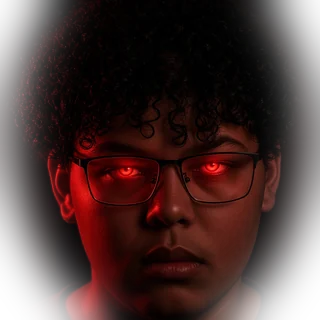
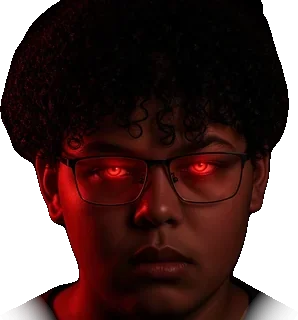
Secret card photos: backgrounds removed (FIFA cards never have photo backgrounds), cache-busted
Claude-Session: https://claude.ai/code/session_01Cnfa8ZaXrxHkhmNg3CfaQv

diff --git a/3d/js/meta/core/secretcard.js b/3d/js/meta/core/secretcard.js
@@ -48,8 +48,8 @@ export const SECRET_VERSIONS = [
   // owner request (Sep 29): Perlita + an "evil" twin. `evil`: red design with "EVIL" across the top, and (owner) -∞ stats: cursed like THE NII
   // (card.js `is-evil`, meta.css). Nation: Kenya (owner).
   { id: 'secret_perlita', last: 'Perlita', name: 'Perlita', nat: 'KEN', skin: 2, photo: 'assets/cards/perlita.webp' },
-  { id: 'secret_evilperlita', last: 'Evil Perlita', name: 'Evil Perlita', nat: 'KEN', skin: 2, photo: 'assets/cards/evil-perlita.webp', evil: true, cursed: true, tag: 'EVIL' },
-  { id: 'secret_evilnickerson', last: 'Evil Nickerson', name: 'Evil Nickerson', nat: 'KEN', skin: 5, photo: 'assets/cards/evil-nickerson.webp', evil: true, cursed: true, tag: 'EVIL' },
+  { id: 'secret_evilperlita', last: 'Evil Perlita', name: 'Evil Perlita', nat: 'KEN', skin: 2, photo: 'assets/cards/evil-perlita.webp?v=2', evil: true, cursed: true, tag: 'EVIL' },
+  { id: 'secret_evilnickerson', last: 'Evil Nickerson', name: 'Evil Nickerson', nat: 'KEN', skin: 5, photo: 'assets/cards/evil-nickerson.webp?v=2', evil: true, cursed: true, tag: 'EVIL' },
   // owner request (Sep 29): knight card, the owner's whole picture (title + background) is the card art and every
   // stat shows a Star of David. Named Rabbi Patel (owner).
   { id: 'secret_knight', last: 'Rabbi Patel', name: 'Rabbi Patel', nat: 'ISR', skin: 1, fullArt: 'assets/cards/knight-full.webp', statGlyph: '✡' },
@@ -60,11 +60,11 @@ export const SECRET_VERSIONS = [
   // owner request (Sep 29): Pain Man, the angelic card: halo (baked into the photo), white-and-gold heavenly design,
   // every stat |∞| (absolute infinity). Nation is a guess (EGY); owner can change it.
   { id: 'secret_painman', last: 'Pain Man', name: 'Pain Man', nat: 'EGY', skin: 1, photo: 'assets/cards/pain-man.webp', angel: true, statText: '|∞|', tag: 'ANGELIC' },
-  { id: 'secret_nii', last: 'AryeetyMensah', name: 'AryeetyMensah', nat: 'GHA', skin: 5, photo: 'assets/cards/aryeety-mensah.webp', cursed: true, tag: 'THE NII' },
+  { id: 'secret_nii', last: 'AryeetyMensah', name: 'AryeetyMensah', nat: 'GHA', skin: 5, photo: 'assets/cards/aryeety-mensah.webp?v=2', cursed: true, tag: 'THE NII' },
   // Vinson uses the same ultra-rare vault slot but has her own HELL presentation and event hook.
   // The timed event consumes `hell` + HELL_CARD_ID; it does not reuse the existing evil/cursed gameplay.
   { id: HELL_CARD_ID, last: 'Evil Vinson', name: 'Evil Vinson', nat: 'USA', skin: 5,
-    photo: 'assets/cards/evil-vinson.png', hell: true, tag: 'WORSE THAN THOMAS' },
+    photo: 'assets/cards/evil-vinson.png?v=2', hell: true, tag: 'WORSE THAN THOMAS' },
 ];
 const VERSION_BY_ID = new Map(SECRET_VERSIONS.map((v) => [v.id, v]));
 export const SECRET_CARD_IDS = SECRET_VERSIONS.map((v) => v.id);

diff --git a/docs/BACKLOG.md b/docs/BACKLOG.md
@@ -216,3 +216,7 @@ Queue: PROMO CARDS (docs/PROMO_BRIEF.md: FUT-style card shapes + many promos, ow
 
 - DONE (Sep 30, branch chatgpt/fifa23-promos; awaiting Claude merge): all 26 requested FIFA 23 campaigns, real display names with existing saved IDs retained, local design keys, generated packs/SBCs, 115 new deterministic promo cards and diversity regression coverage. Card renderer, CSS and network untouched. TOTS Warm-Up / Pre-Season reuse TOTS / FUTTIES backgrounds.
   - Merge handoff: `design` is campaign metadata for Claude's card renderer integration; this branch does not change card.js/meta.css. Existing launch weeks preserved; nine new campaigns fill unused future weeks. Validate with `node 3d/js/meta/tests/promos-fifa23.test.mjs` as well as the standing suite.
+- Sep 30 (owner, late): promo cards must be the REAL EA cards (real rating/stats/picture/design per card), not boosted
+  copies; store section per game (FIFA 22, 23, FC 24-27); secret cards stay unique (custom art, not reused EA designs);
+  no picture outside the card; no photo backgrounds unless the real FIFA card has one; no shared celebration picture
+  across promos. Split with ChatGPT in docs/AI_DIRECT.md (group chat). Real FC 26/27 promo items: Claude agent 3.
